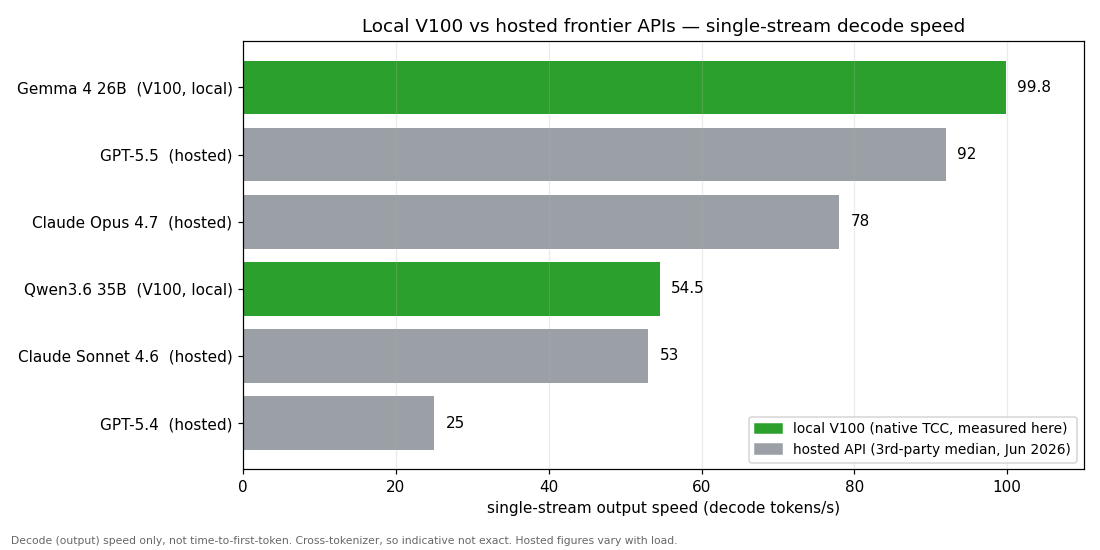
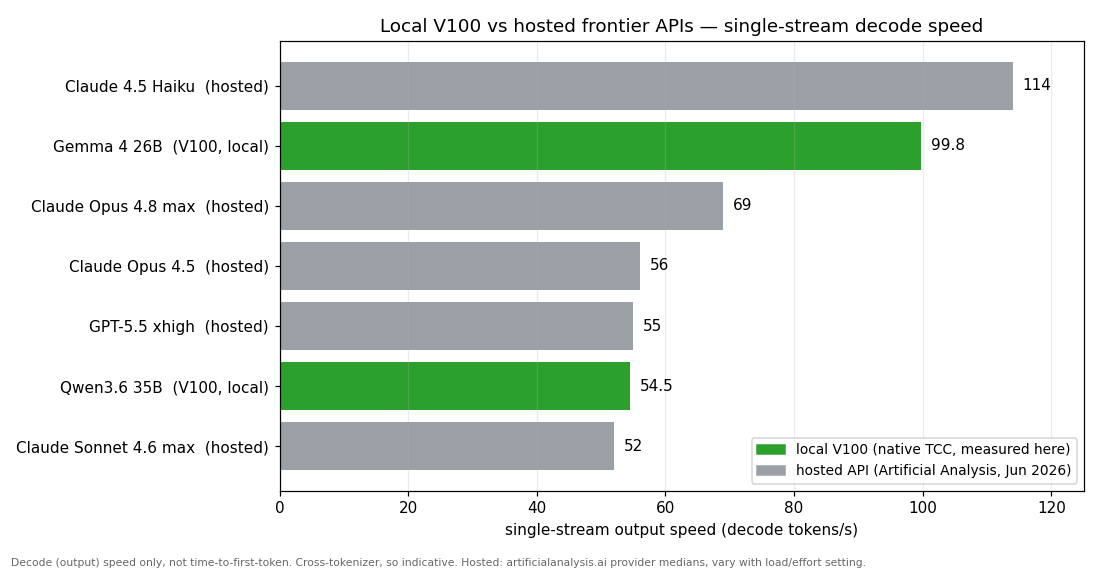
Correct hosted-API speed comparison with single-source AA figures
The previous chart mixed figures from different third-party pages (and had
an implausible Opus>Sonnet ordering from mismatched values). Replaced with
one consistent source, Artificial Analysis provider pages (anthropic/openai,
Jun 2026): Claude 4.5 Haiku 114, Gemma 4 (V100 TCC) 99.8, Opus 4.8 max 69,
Opus 4.5 56, GPT-5.5 xhigh 55, Qwen3.6 35B (V100 TCC) 54.5, Sonnet 4.6 max
52. Chart, benchmarks table, and blog paragraph updated to match.

diff --git a/docs/benchmarks.md b/docs/benchmarks.md
@@ -181,15 +181,17 @@ hosted-frontier band:
 
 | Model | Single-stream output | Source |
 |---|---|---|
+| Claude 4.5 Haiku | 114 tok/s | Artificial Analysis, Jun 2026 |
 | Gemma 4 26B (V100, native TCC) | 99.8 tok/s | measured here |
-| GPT-5.5 | ~92 tok/s | 3rd-party, Jun 2026 |
-| Claude Opus 4.7 | ~78 tok/s | 3rd-party, Jun 2026 |
+| Claude Opus 4.8 (max) | 69 tok/s | Artificial Analysis, Jun 2026 |
+| Claude Opus 4.5 | 56 tok/s | Artificial Analysis, Jun 2026 |
+| GPT-5.5 (xhigh) | 55 tok/s | Artificial Analysis, Jun 2026 |
 | Qwen3.6 35B (V100, native TCC) | 54.5 tok/s | measured here |
-| Claude Sonnet 4.6 | ~53 tok/s | 3rd-party, Jun 2026 |
-| GPT-5.4 | ~20–30 tok/s | 3rd-party, Jun 2026 |
+| Claude Sonnet 4.6 (max) | 52 tok/s | Artificial Analysis, Jun 2026 |
 
-Gemma on the card decodes faster than several hosted models and Qwen sits mid-pack, but read it
-honestly, it's a narrow claim:
+Gemma on the card decodes faster than the full-size frontier models here (Opus, GPT-5.5, Sonnet),
+only Anthropic's small fast Haiku is quicker; Qwen sits right in the pack with Sonnet, Opus 4.5 and
+GPT-5.5. But read it honestly, it's a narrow claim:
 
 - **Decode speed only, not time-to-first-token.** Hosted APIs start answering in under a second; the
   V100's cold start is slow (Gemma ~15 s, Qwen ~2.5 min single-card on a 24k prompt), so short
@@ -199,4 +201,5 @@ honestly, it's a narrow claim:
   capability for privacy and a flat running cost, not matching them.
 - **Single stream both sides.** Hosted endpoints serve huge concurrency; these are single-request rates.
 
-Hosted figures are third-party medians (Artificial Analysis and similar, June 2026) and move with load.
+Hosted figures are Artificial Analysis provider-page medians (anthropic / openai, June 2026) and
+move with load and the effort setting.

diff --git a/blog-post-draft.md b/blog-post-draft.md
@@ -75,7 +75,7 @@ ships are for actual Linux hosts, where they're the fastest path of the lot, not
 
 The question I get is whether it's anywhere near a hosted model for speed, and the honest answer is:
 on raw output speed, closer than you'd think. Single-stream decode, the V100 sits right in the
-frontier-API band, Gemma actually clears most of them:
+frontier-API band, Gemma clears the full-size frontier models and only the little fast Haiku beats it:
 
 ![Single-stream decode speed, the V100 vs hosted frontier APIs](_assets/v100-kit/output-speed-vs-hosted.png)
 
@@ -85,8 +85,8 @@ V100's cold start is slow (the Qwen 24k-prompt cold start is minutes on a single
 the same size across tokenizers, so it's indicative, not exact. And the real gap isn't speed at all,
 it's quality, the frontier models are plainly smarter, you're buying privacy and a flat running cost,
 not parity. But for the thing people assume, that a 2017 card must be glacial next to an API, the
-decode numbers say otherwise. (Hosted figures are third-party medians, Artificial Analysis and the
-like, June 2026, and they wander with load.)
+decode numbers say otherwise. (Hosted figures are Artificial Analysis provider medians, June 2026,
+and they wander with load and the effort setting.)
 
 ## Proving it's actually local
 